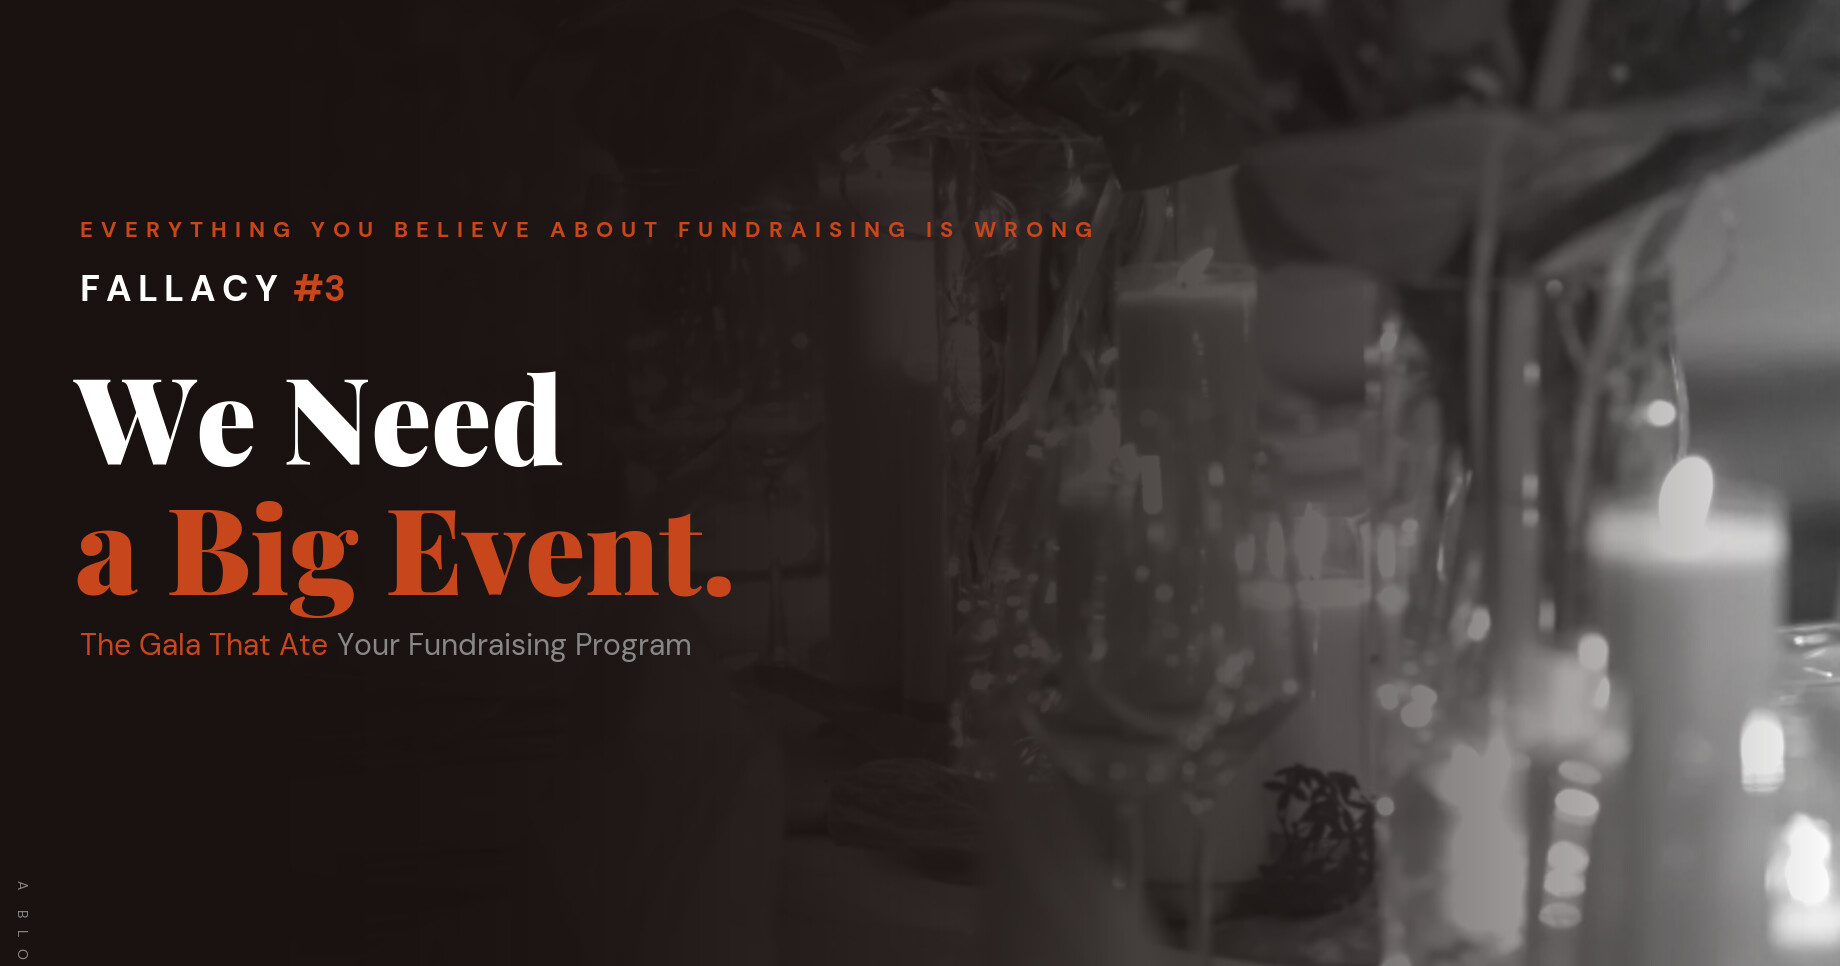
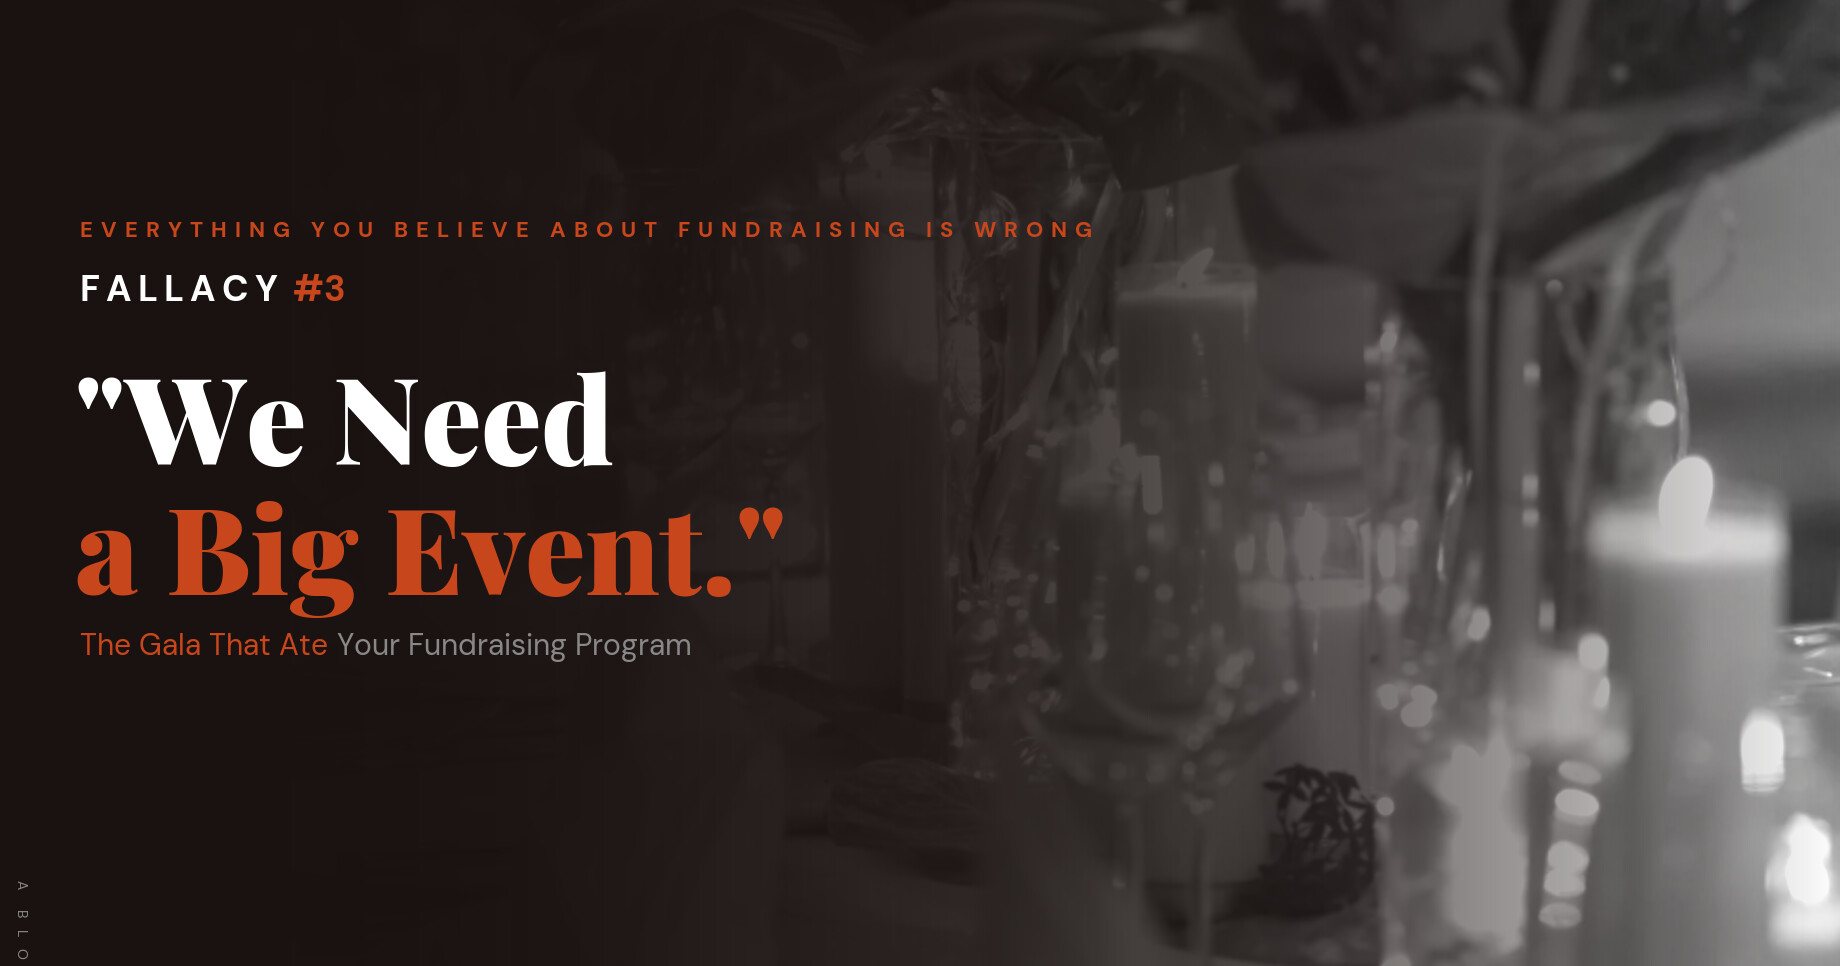
Add quotation marks to fallacy titles in images and HTML

Changed region(s): [[0.031, 0.3727, 0.3408, 0.4969], [0.4027, 0.528, 0.4337, 0.559]]

diff --git a/Website/blog/we-need-a-big-event.html b/Website/blog/we-need-a-big-event.html
@@ -429,7 +429,7 @@
         <span class="article-series"><a href="everything-you-believe-about-fundraising-is-wrong">Fallacy #3</a></span>
         <span class="article-date">March 20, 2026</span>
     </div>
-    <h1>We Need a Big Event</h1>
+    <h1>&ldquo;We Need a Big Event.&rdquo;</h1>
     <p class="article-subtitle">The Gala That Ate Your Fundraising Program</p>
 </div>
 </div>
@@ -468,7 +468,7 @@
 
     <p>It's also, for most small-to-medium nonprofits, one of the most expensive and least efficient ways to raise money. The data on this couldn't be clearer. So, why does the gala persist as the go-to solution for so many non-profits struggling to make ends meet?</p>
 
-    <p>Well, for a variety of reasons. One reason is that the gala <em>can</em> provide very real benefits (Although it is rarely - read: never - the most efficient means of achieving those benefits). The other reason, however, is less encouraging: very few organizations honestly evaluate the effectiveness of their galas.</p>
+    <p>Well, for a variety of reasons. One reason is that the gala <em>can</em> provide very real benefits (Although it is rarely the most efficient means of achieving those benefits). The other reason, however, is less encouraging: very few organizations honestly evaluate the effectiveness of their galas.</p>
 
     <p>And why would they?</p>
 

diff --git a/Website/blog/if-we-build-it.html b/Website/blog/if-we-build-it.html
@@ -428,7 +428,7 @@
         <span class="article-series"><a href="everything-you-believe-about-fundraising-is-wrong">Fallacy #2</a></span>
         <span class="article-date">March 18, 2026</span>
     </div>
-    <h1>If We Do Good Work, the Money Will Come</h1>
+    <h1>&ldquo;If We Do Good Work, the Money Will Come.&rdquo;</h1>
     <p class="article-subtitle">The Comforting Lie That Keeps Good Organizations Broke</p>
 </div>
 </div>

diff --git a/Website/blog/fundraising-is-embarrassing.html b/Website/blog/fundraising-is-embarrassing.html
@@ -420,7 +420,7 @@
         <span class="article-series"><a href="everything-you-believe-about-fundraising-is-wrong">Fallacy #1</a></span>
         <span class="article-date">March 13, 2026</span>
     </div>
-    <h1>Fundraising is Embarrassing</h1>
+    <h1>&ldquo;Fundraising is Embarrassing.&rdquo;</h1>
     <p class="article-subtitle">The Original Sin That Poisons Everything Else</p>
 </div>
 </div>
